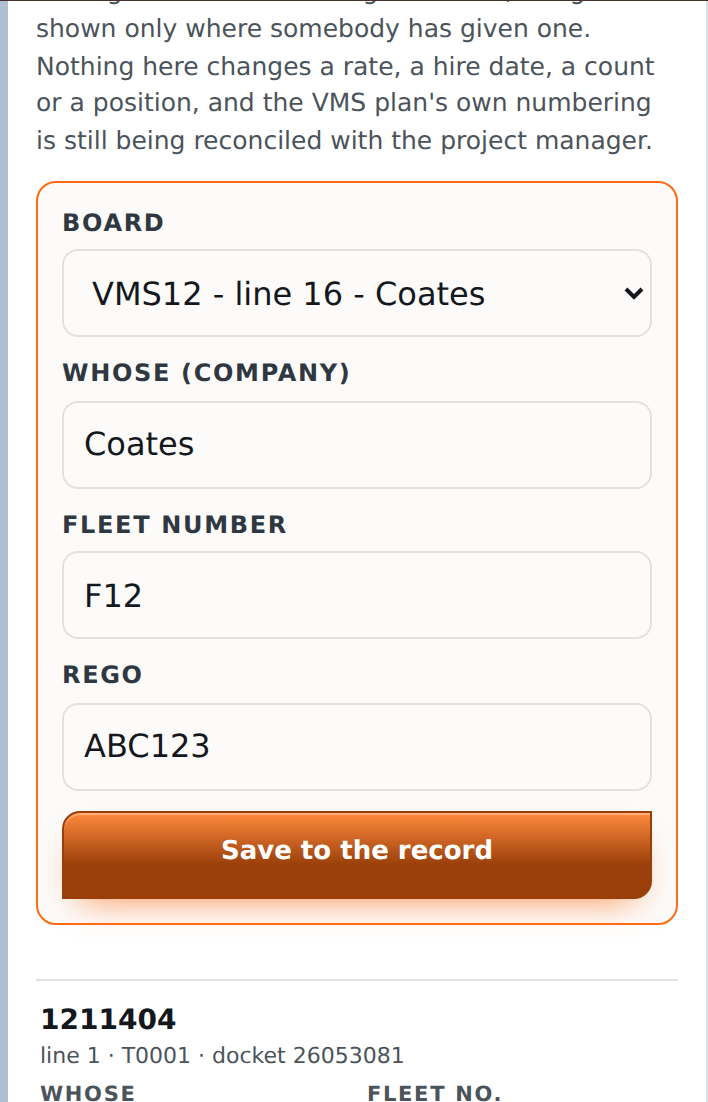
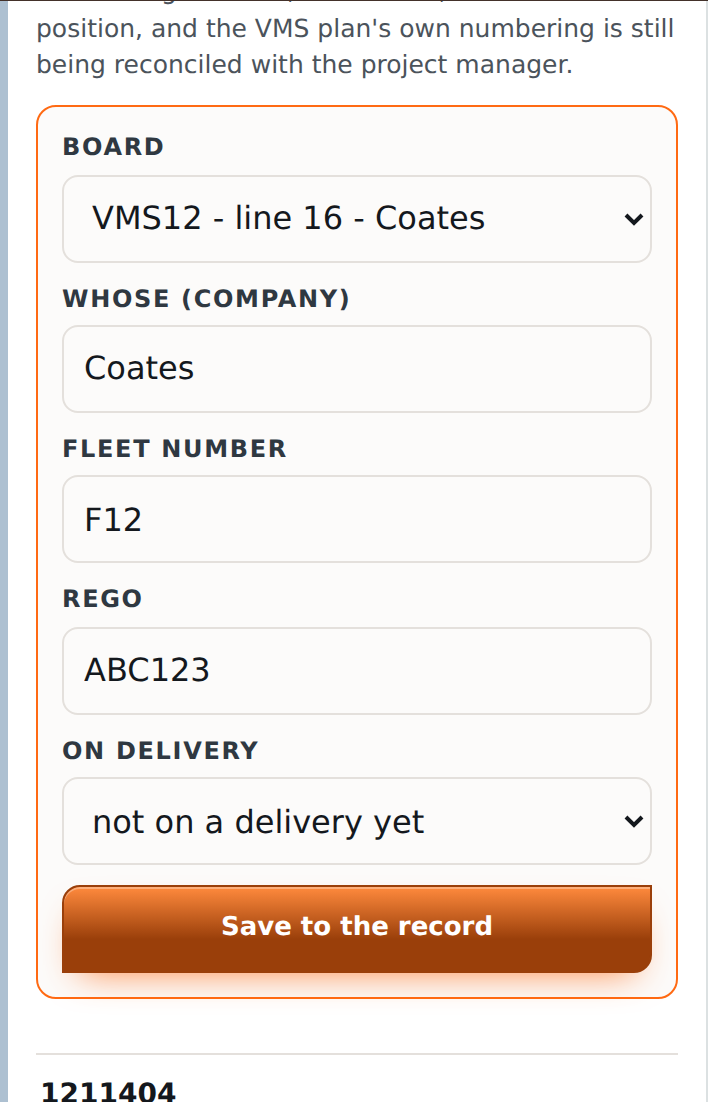
WIP: board: v9.11 LIVE readback; worker picker and dropdown contrast verified independently (not READY)
Claude-Session: https://claude.ai/code/session_01BQwk5iUoysfHRmoPUtnkBd

diff --git a/03_GC500_Delivery_Control/STATUS.md b/03_GC500_Delivery_Control/STATUS.md
@@ -34,6 +34,17 @@
   - The roster grid answers "which days each person is on". Is that what he meant?
 - **The build follows his yes**, on the latest public page. If Codex's v9.08 is live by then, it is rebuilt on v9.08.
 
+**LIVE, 8 Oct 2026 ~15:59 AEST: Codex's v9.11** (`5f24f57b`), the Timeline follow-up:
+- **What it does:** Workers is split from load ordering and opens straight to the worker picker; native dropdown contrast is fixed; the original master plan shows only inside "Arrange loads".
+- **Claude's GET readback at 16:00 AEST:**
[1 lines of base64/hex data omitted]
+  - media 1,975, manifest `25afcb42…`, and machine `cd05e73e…`, all unchanged.
+- **Claude's independent check, read-only, laptop 1440 and phone 390, light and dark:**
+  - "Workers · Not assigned" shows on each load card as a 44 px button (58 px on the phone), beside "Day worker names · 4 available";
+  - all 21 visible selects pass contrast closed (≥ 7.2:1) and open (option text ≥ 13.5:1, explicit option colours);
+  - 0 writes blocked.
+- **Base for Claude's next releases is now v9.11.** v9.09 takes the next free footer: v9.12.
+
 **CLAUDE, 8 Oct 2026 ~15:50 AEST: fencing CW3 invoice checked for Andrew** ("can i get you to access this one we all good").
 - **The invoice:** Advanced's Week 3 (CW3, 28 Sep–2 Oct) commercial-approval sheet, one page, a private input kept out of git.
 - **Verdict: approve once two things are fixed.** The PO number printed doesn't match the record, and docket 36532 should be 36562 (36532 is a CW5 docket already billed).
